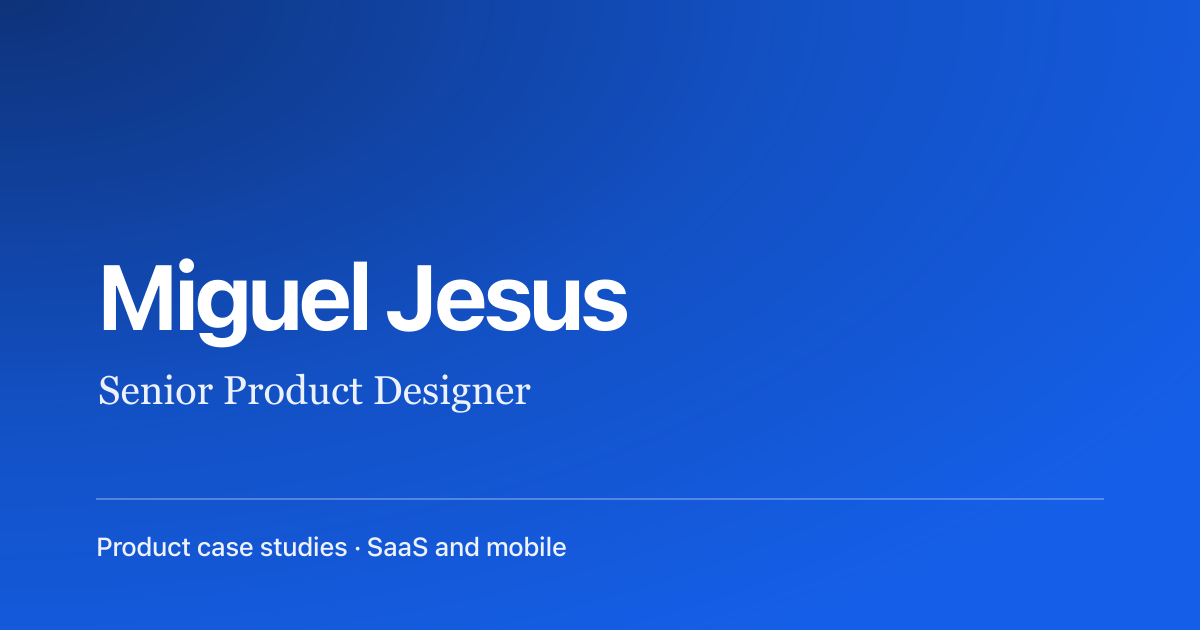
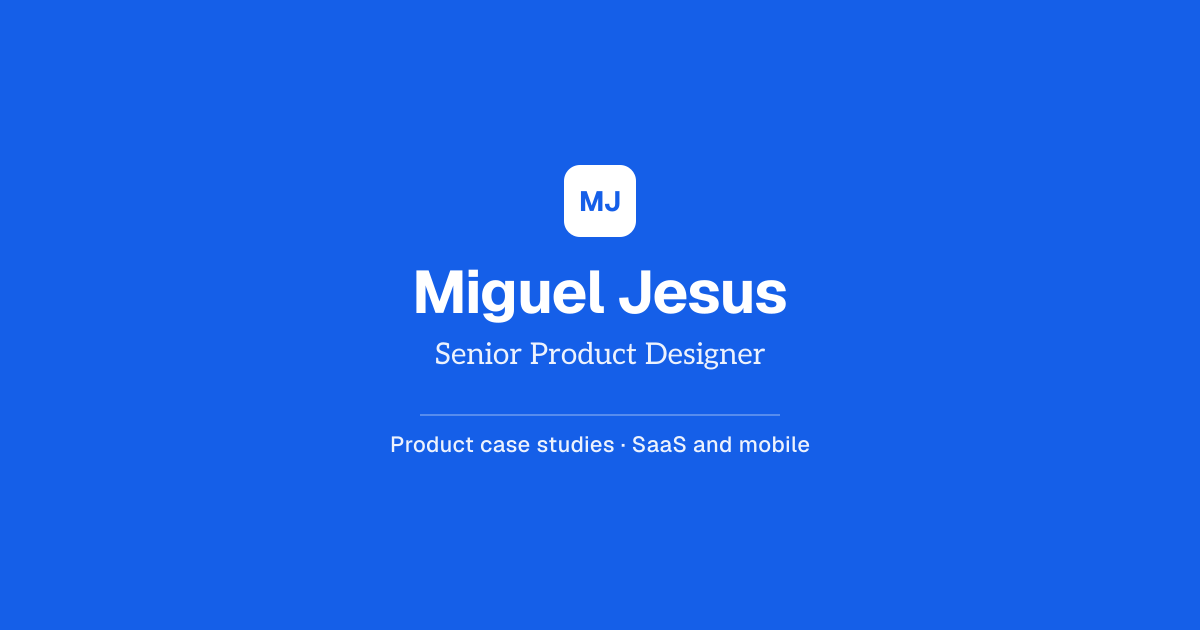
Center the default OG image so it survives iOS's share-sheet square crop
The old left-aligned layout cut "Miguel Jesus" / "Senior Product Designer"
off mid-word when iOS cropped a centered square out of it for the share
sheet's icon. Prototyped a centered composition in Figma, got it approved,
and ported it into the generator.

diff --git a/HANDOFF.md b/HANDOFF.md
@@ -1,6 +1,15 @@
 # Handoff
 
-Last updated: 2026-08-31 (session 19)
+Last updated: 2026-09-07 (session 20)
+
+## What changed in this session (2026-09-07, session 20)
+
+Fixed the default OG/share image (`public/og/default.png`, home/about/contact only, per-case-study images untouched) so it survives iOS's share-sheet square crop. Miguel spotted the bug live: sharing `migueljss.com` via the iOS Share Sheet showed a preview icon with "el Jesus" / "duct Designer", the tail ends of "Miguel Jesus" / "Senior Product Designer" cut off. Root cause: iOS crops a centered 630×630 square out of the 1200×630 `og:image` for that icon slot (x: 285–915); the old layout was left-aligned starting at x=96, so the crop landed mid-word. The `apple-touch-icon.png` itself was already correct, this was purely the OG image's design.
+
+- **Prototyped the fix in Figma first** (Miguel's request), on the "share assets" page of the [MJ Design System](https://www.figma.com/design/rUbsiKyYr0xITgTGVXJjJT/MJ-Design-System) file (new page, was empty), frame **"OG - Default (crop-safe)"** (`94:2`). Centered composition: a white rounded "MJ" badge (echoes `apple-touch-icon.png`, inverted for the cobalt field) above "Miguel Jesus" / "Senior Product Designer", a thin rule, then the tagline, all centered horizontally. Verified via bounding boxes that name (x 412–789) and tagline (x 390–811) both sit inside the 285–915 crop window with 100px+ margin. Miguel approved as-is, no refinements made.
+- **Ported to [scripts/build-og-image.mjs](scripts/build-og-image.mjs)**: replaced the left-aligned SVG layout with the centered one (badge rect + text, centered name/subtitle, centered divider + tagline). Also dropped the top-left radial vignette, the approved Figma frame is flat cobalt, matching the `apple-touch-icon` treatment more directly.
+- Regenerated `public/og/default.png`. Build clean (7 pages, 0/0/0).
+- This only touches the fallback OG image (home/about/contact). Per-case-study OG images are generated from each case's `banner` (a screenshot/product photo, not text), so they aren't subject to the same failure mode and weren't touched.
 
 ## Where we are
 
@@ -238,7 +247,7 @@ Per-session detail beyond this lives in the git log; commit messages carry the s
 ## Open items / look at these next
 
 ### Re-verify on the live site
-- **Share-sheet icon on iOS.** Verify the `apple-touch-icon` shows the MJ wordmark instead of an auto-cropped portrait. iOS caches the icon aggressively; if you still see the old one, force-quit Safari or clear site data (Settings → Apps → Safari → Advanced → Website Data).
+- ~~Share-sheet icon on iOS~~ — resolved session 20: the icon itself (`apple-touch-icon.png`) was already correct; the actual bug was the default OG image's square crop cutting off text mid-word. Fixed by centering the composition. iOS caches aggressively, so if the old cropped preview still shows, force-quit Safari or clear site data (Settings → Apps → Safari → Advanced → Website Data) before re-checking.
 
 ### Fine-tuning (Miguel to drive)
 - ~~Hero copy~~ — resolved session 19: swapped to the more conversational "Hi! I'm Miguel..." headline.
